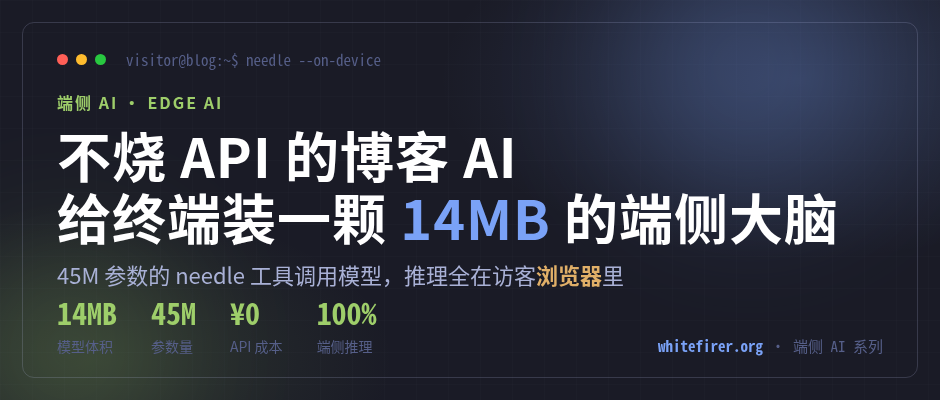
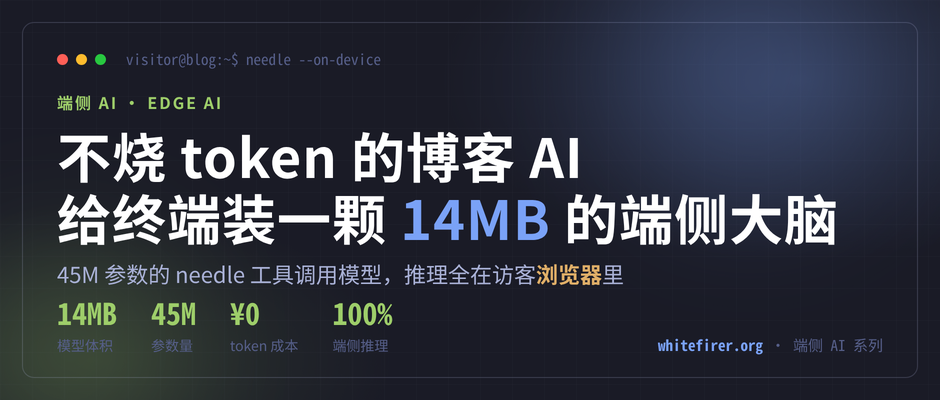
content: needle 文章标题「不烧 API」改「不烧 token」，封面同步重出

diff --git a/content/posts/blog-terminal-needle-edge-ai/index.md b/content/posts/blog-terminal-needle-edge-ai/index.md
@@ -1,9 +1,9 @@
 ---
-title: "不烧 API 的博客 AI：给终端装一颗 14MB 的端侧大脑"
+title: "不烧 token 的博客 AI：给终端装一颗 14MB 的端侧大脑"
 subtitle: "needle：一颗 45M 参数的工具调用模型，推理全在访客浏览器里，不花一分钱 API"
 description: "记录把 needle（cactus-compute 的 45M 工具调用模型）接进 Hugo 博客终端的全过程：worker 架构、tools JSON 设计、needle1 的中文乱码考古、locale 救回 needle2 的 decode 失控、拒答改写与指代消解这些规则补丁，以及端侧语义搜索兜底。最后聊聊这颗模型能跑在什么硬件上，以及跑不动的设备该怎么办。"
 date: 2026-08-18 01:30:00+08:00
-lastmod: 2026-08-18 01:30:00+08:00
+lastmod: 2026-08-19 00:44:00+08:00
 slug: "blog-terminal-needle-edge-ai"
 featuredImagePreview: "cover.png"
 author: "whitefirer"
@@ -17,7 +17,7 @@ tags: ["tech", "ai", "needle", "wasm", "edge-ai", "llm", "hugo"]
 categories: ["Tech"]
 ---
 
-## 一、动机：想要 AI，但不想烧 API
+## 一、动机：想要 AI，但不想烧 token
 
 这个博客的首页有个终端，本来就是放着玩的。后来想给它加点"AI 助手"的味道——访客输入「找一下 deepseek 的文章」，终端自己检索、列出结果、附上链接。
 
